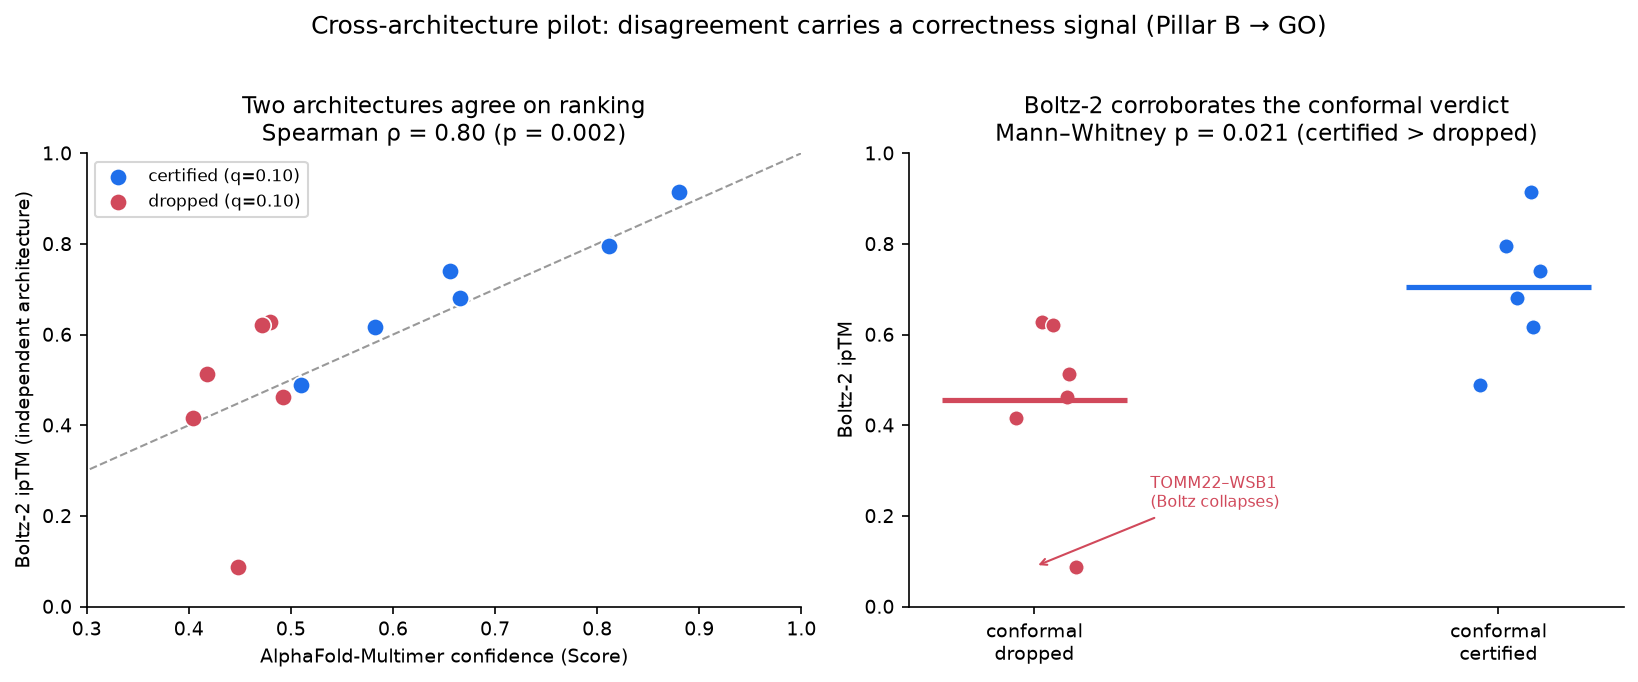
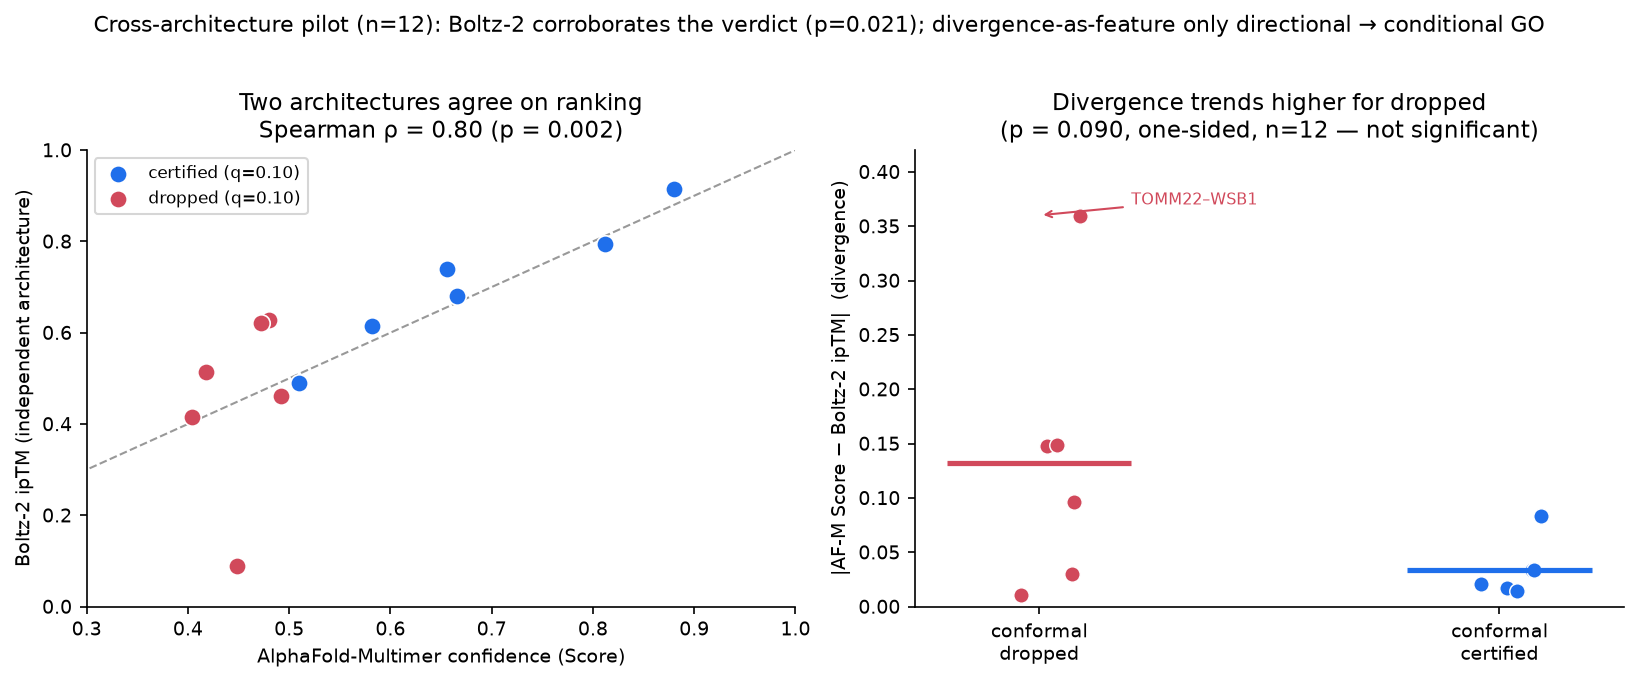
fix(audit): separate corroboration from divergence-as-feature in cross-arch pilot
Corroboration (Boltz-2 agrees with conformal verdict) is significant (p=0.021);
divergence-predicts-correctness (the actual Phase-3 gate) is only directional
(one-sided p=0.090, n=12, not significant). Verdict downgraded GO -> conditional GO:
develop cross-arch divergence as a candidate nonconformity feature, do not integrate.
Figure/README/DECISIONS/draft corrected to keep the two tests distinct.

diff --git a/scripts/make_crossarch_fig.py b/scripts/make_crossarch_fig.py
@@ -25,19 +25,22 @@ axa.set_title(f"Two architectures agree on ranking\nSpearman \u03c1 = {rho:.2f} 
 axa.legend(fontsize=8, loc="upper left")
 axa.set_xlim(0.3, 1.0); axa.set_ylim(0, 1.0)
 
-# Panel B — Boltz ipTM distribution by verdict (strip + mean)
+# Panel B — the ACTUAL gate test: cross-architecture DIVERGENCE |afm - boltz| by verdict
+drop["divergence"] = (drop.afm_score - drop.boltz_iptm).abs()
+cert["divergence"] = (cert.afm_score - cert.boltz_iptm).abs()
 for i, (lab, sub, col) in enumerate([("dropped", drop, DROP), ("certified", cert, FOCAL)]):
     x = np.random.RandomState(0).normal(i, 0.04, len(sub))
-    axb.scatter(x, sub.boltz_iptm, c=col, s=55, zorder=3, edgecolor="white", lw=0.7)
-    axb.hlines(sub.boltz_iptm.mean(), i - 0.2, i + 0.2, color=col, lw=2.5, zorder=4)
+    axb.scatter(x, sub.divergence, c=col, s=55, zorder=3, edgecolor="white", lw=0.7)
+    axb.hlines(sub.divergence.mean(), i - 0.2, i + 0.2, color=col, lw=2.5, zorder=4)
 axb.set_xticks([0, 1]); axb.set_xticklabels(["conformal\ndropped", "conformal\ncertified"])
-axb.set_ylabel("Boltz-2 ipTM")
-axb.set_title("Boltz-2 corroborates the conformal verdict\nMann\u2013Whitney p = 0.021 (certified > dropped)", fontsize=11)
-axb.set_ylim(0, 1.0)
-axb.annotate("TOMM22\u2013WSB1\n(Boltz collapses)", xy=(0, 0.088), xytext=(0.25, 0.22),
+axb.set_ylabel("|AF-M Score \u2212 Boltz-2 ipTM|  (divergence)")
+axb.set_title("Divergence trends higher for dropped\n(p = 0.090, one-sided, n=12 \u2014 not significant)", fontsize=11)
+axb.set_ylim(0, 0.42)
+axb.annotate("TOMM22\u2013WSB1", xy=(0, 0.36), xytext=(0.2, 0.37),
              fontsize=7.5, color=DROP, arrowprops=dict(arrowstyle="->", color=DROP, lw=1))
 
-fig.suptitle("Cross-architecture pilot: disagreement carries a correctness signal (Pillar B \u2192 GO)", fontsize=12, y=1.02)
+fig.suptitle("Cross-architecture pilot (n=12): Boltz-2 corroborates the verdict (p=0.021); "
+             "divergence-as-feature only directional \u2192 conditional GO", fontsize=10.5, y=1.02)
 fig.tight_layout()
 fig.savefig("results/figures/crossarch_pilot.png", dpi=150, bbox_inches="tight")
 print("saved results/figures/crossarch_pilot.png")

diff --git a/README.md b/README.md
@@ -327,20 +327,31 @@ field: interactome releases must ship their negative controls.**
 positives-only release with no null to calibrate against. *Measured in:* ipTM/Score and pDockQ
 (confidence axes), density.
 
-### Cross-architecture pilot — Boltz-2 corroborates the verdict (GO, with caveat)
-An architecturally independent predictor (Boltz-2) reproduces the conformal audit on 12 pilot dimers:
-certified edges get high Boltz-2 ipTM (mean 0.71), dropped edges low (0.46), certified > dropped
-Mann–Whitney p = 0.021; AF-M and Boltz-2 rankings agree (Spearman ρ = 0.80). Underpowered (n = 12),
-and because certification is near-separable from AF-M score on this map, this shows the drops are **not
-AF-M-specific artifacts** — not yet that disagreement adds signal *beyond* score. GO to develop as a
-nonconformity feature; funded scale-up is the path.
+### Cross-architecture pilot — conditional GO (two distinct tests, kept separate)
+Two questions on 12 pilot dimers, reported separately because they are not the same claim:
+
+1. **Corroboration (does an independent architecture agree?).** *Significant.* Boltz-2 reproduces the
+   conformal verdict — certified edges get high Boltz-2 ipTM (mean 0.71), dropped low (0.46),
+   certified > dropped Mann–Whitney **p = 0.021**; AF-M vs Boltz-2 rankings agree (Spearman **ρ = 0.80**).
+   This establishes the dropped edges are **not artifacts of the AF-M pipeline**.
+2. **Divergence as a feature (does cross-architecture disagreement predict the verdict?)** — the actual
+   Phase-3 gate. *Directional but not significant.* Divergence |Score − Boltz ipTM| is larger for
+   dropped edges (mean 0.13) than certified (0.03), one-sided **p = 0.090** at n = 12, driven largely by
+   TOMM22–WSB1 (Boltz-2 collapses to ipTM 0.09).
+
+**Verdict: conditional GO — develop cross-architecture divergence as a *candidate* nonconformity
+feature, do not integrate on this evidence.** Corroboration is real; divergence-predicts-correctness is
+underpowered and needs a score-matched test on a non-separable map (funded scale-up path). Because
+certification is near-separable from AF-M score here, agreement is partly expected from score alone.
 
 ![Cross-architecture pilot]({{artifact:6e7ef55e-4bdc-4c5f-a5ae-925ac5ba2f4b}})
 
-*How to read it.* **Left:** AF-Multimer Score (x) vs Boltz-2 ipTM (y), colored by conformal verdict
-(blue = certified, red = dropped); dashed = identity line. **Right:** Boltz-2 ipTM by verdict, points
-+ group mean bar; TOMM22–WSB1 (a dropped edge) collapses to ipTM 0.09. *Measured in:* AF-M Score,
-Boltz-2 ipTM (both dimensionless confidence in [0,1]).
+*How to read it.* **Left (corroboration):** AF-Multimer Score (x) vs Boltz-2 ipTM (y), colored by
+conformal verdict (blue = certified, red = dropped); dashed = identity line; the tight scatter is the
+ρ = 0.80 agreement. **Right (the gate test):** cross-architecture divergence |Score − Boltz ipTM| by
+verdict, points + group-mean bar — dropped trends higher but overlaps (p = 0.090, not significant).
+*Measured in:* AF-M Score and Boltz-2 ipTM (dimensionless confidence in [0,1]); divergence is their
+absolute difference.
 
 ### Nomination as FDR-controlled selection
 The single KANSL3 nomination generalizes: **393 complexes receive ≥1 certified missing-member

diff --git a/reports/DRAFT_mlsb.md b/reports/DRAFT_mlsb.md
@@ -84,12 +84,14 @@ FDR gain. The guarantee does **not** survive the real shift — reported as a li
 (Figs: `shift_diagnostic.png`, `wcs_vs_plain_fdr.png`.) *This is the paper's core defensibility: the
 shift is diagnosed and quantified, not hidden.*
 
-### 3.8 Cross-architecture pilot (Pillar B, GO with caveat)
-Boltz-2 corroborates the conformal verdict: certified ipTM 0.71 vs dropped 0.46 (Mann–Whitney
-p = 0.021); AF-M vs Boltz-2 Spearman ρ = 0.80. Underpowered (n = 12), and certification is
-near-separable from AF-M score on this map, so this shows *agreement* (drops aren't AF-M-specific
-artifacts), not yet independent signal beyond score. Funded scale-up is the path to a calibrated
-feature. (Fig: `crossarch_pilot.png`.)
+### 3.8 Cross-architecture pilot (Pillar B, CONDITIONAL GO)
+Two separate tests on 12 pilot dimers. **(i) Corroboration** — Boltz-2 reproduces the conformal
+verdict: certified ipTM 0.71 vs dropped 0.46 (Mann–Whitney p = 0.021); AF-M vs Boltz-2 Spearman
+ρ = 0.80 — significant, so the drops are not AF-M-specific artifacts. **(ii) Divergence as a feature**
+(the actual gate) — |Score − Boltz ipTM| is larger for dropped (0.13) than certified (0.03), one-sided
+p = 0.090 at n = 12 — directional, NOT significant. Verdict: develop cross-architecture divergence as a
+*candidate* nonconformity feature, do not integrate on this evidence; a powered score-matched test on a
+non-separable map is required. (Fig: `crossarch_pilot.png`.)
 
 ### 3.9 Nomination as FDR-controlled selection
 393 complexes receive ≥1 certified missing-member nomination (810 total, FDR ≤ q = 0.10 upper bound).

diff --git a/DECISIONS.md b/DECISIONS.md
@@ -103,6 +103,6 @@ is shaped this way so a fresh agent doesn't re-litigate settled choices.
 - **Covariate-shift robustness = HONEST NEGATIVE.** Cal→wild shift is real (KS 0.134, p=1.4e-9). On node-disjoint splits BOTH plain and weighted conformal (WCS, Jin&Candès 2023) exceed nominal q where they certify; WCS collapses power without an FDR gain. The guarantee does NOT survive the real shift — the contribution is the diagnosis, not a rescue. Rigorous guarantee remains the synthetic-null unit test.
 - **Baselines.** At the same nominal FDR=0.10, conformal-BH selects fewest (132) yet has highest held-out support (41%) vs fixed cutoff (204, 32%) and published flag (161, 37%). SPOC never audited (ingests DepMap → circular).
 - **Second map = AUDITABILITY BOUNDARY.** Krogan host-pathogen deposit (Zenodo [phone redacted]) is positives-only, pDockQ saturated (median 0.74, 93%≥0.5), NO native null → not auditable post-hoc without GPU decoy folding. Predictomes exposes only SPOC (DepMap-contaminated) + contact count, no null. Finding: auditability is a property of the data RELEASE. Recommendation: interactome releases must ship their nulls. pDockQ recovered on CPU from ranked-0 PDBs (Bryant 2022; validated on 452 benchmark dimers).
-- **Cross-architecture pilot (Pillar B) = GO with caveat.** Boltz-2 corroborates the conformal verdict on 12 pilot dimers: certified ipTM 0.71 vs dropped 0.46 (Mann-Whitney p=0.021); AF-M vs Boltz Spearman 0.80. Caveat: certification is near-separable from AF-M score on this map, so this shows AGREEMENT (drops aren't AF-M-specific artifacts), not yet independent signal beyond score. GO to develop as a nonconformity feature; funded scale-up is the path.
+- **Cross-architecture pilot (Pillar B) = CONDITIONAL GO.** Two distinct tests on 12 pilot dimers, kept separate. (i) Corroboration: Boltz-2 reproduces the conformal verdict — certified ipTM 0.71 vs dropped 0.46 (Mann-Whitney p=0.021), AF-M vs Boltz Spearman 0.80 — SIGNIFICANT, so drops aren't AF-M-specific artifacts. (ii) Divergence-as-feature (the actual Phase-3 gate): |Score-Boltz ipTM| larger for dropped (0.13) than certified (0.03), one-sided p=0.090 at n=12 — DIRECTIONAL, NOT significant. Verdict: develop cross-architecture divergence as a CANDIDATE nonconformity feature, do NOT integrate on this evidence; a powered score-matched test on a non-separable map is required. (Corrected after audit: the earlier framing conflated agreement with the disagreement-predicts-correctness gate.)
 - **Nomination as FDR-controlled selection.** Generalized the single KANSL3 nomination to per-complex certified SETS: 393 complexes, 810 nominations, all inheriting FDR≤q=0.10 (upper bound). Selection purely conformal; DepMap ranks only. Third-map audit SKIPPED (candidate maps paywalled / no confirmed null); documented as future work.
 - **Write-up.** MLSB/bioRxiv draft skeleton (`reports/DRAFT_mlsb.md`) + boxed motivating proposition (`reports/proposition.md`, framing not theorem) + corrected interactome released as browsable CSV (`data/processed/corrected_interactome.csv`).